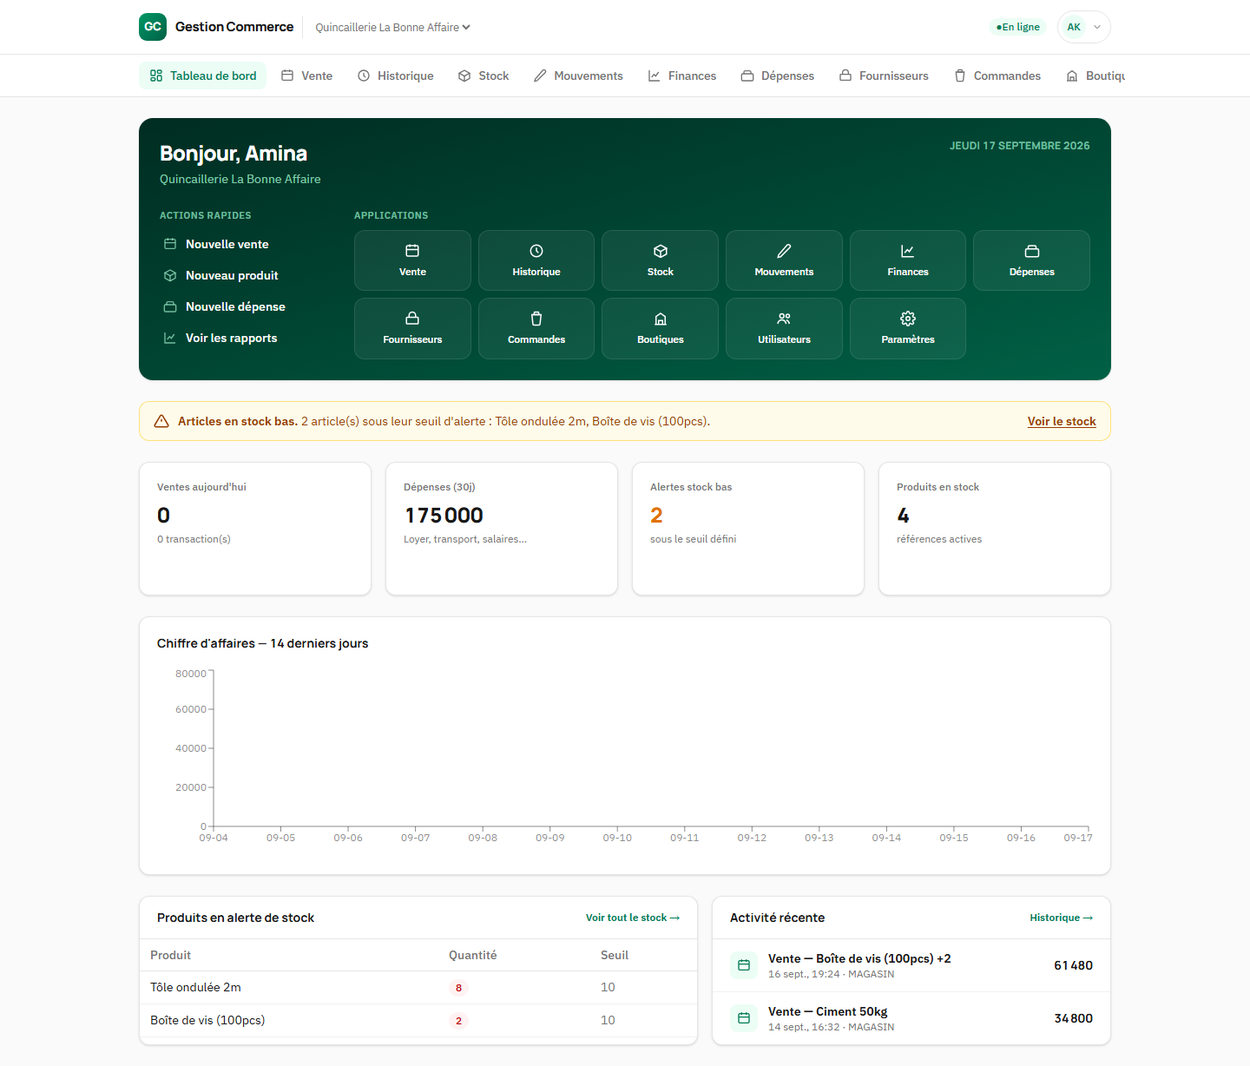
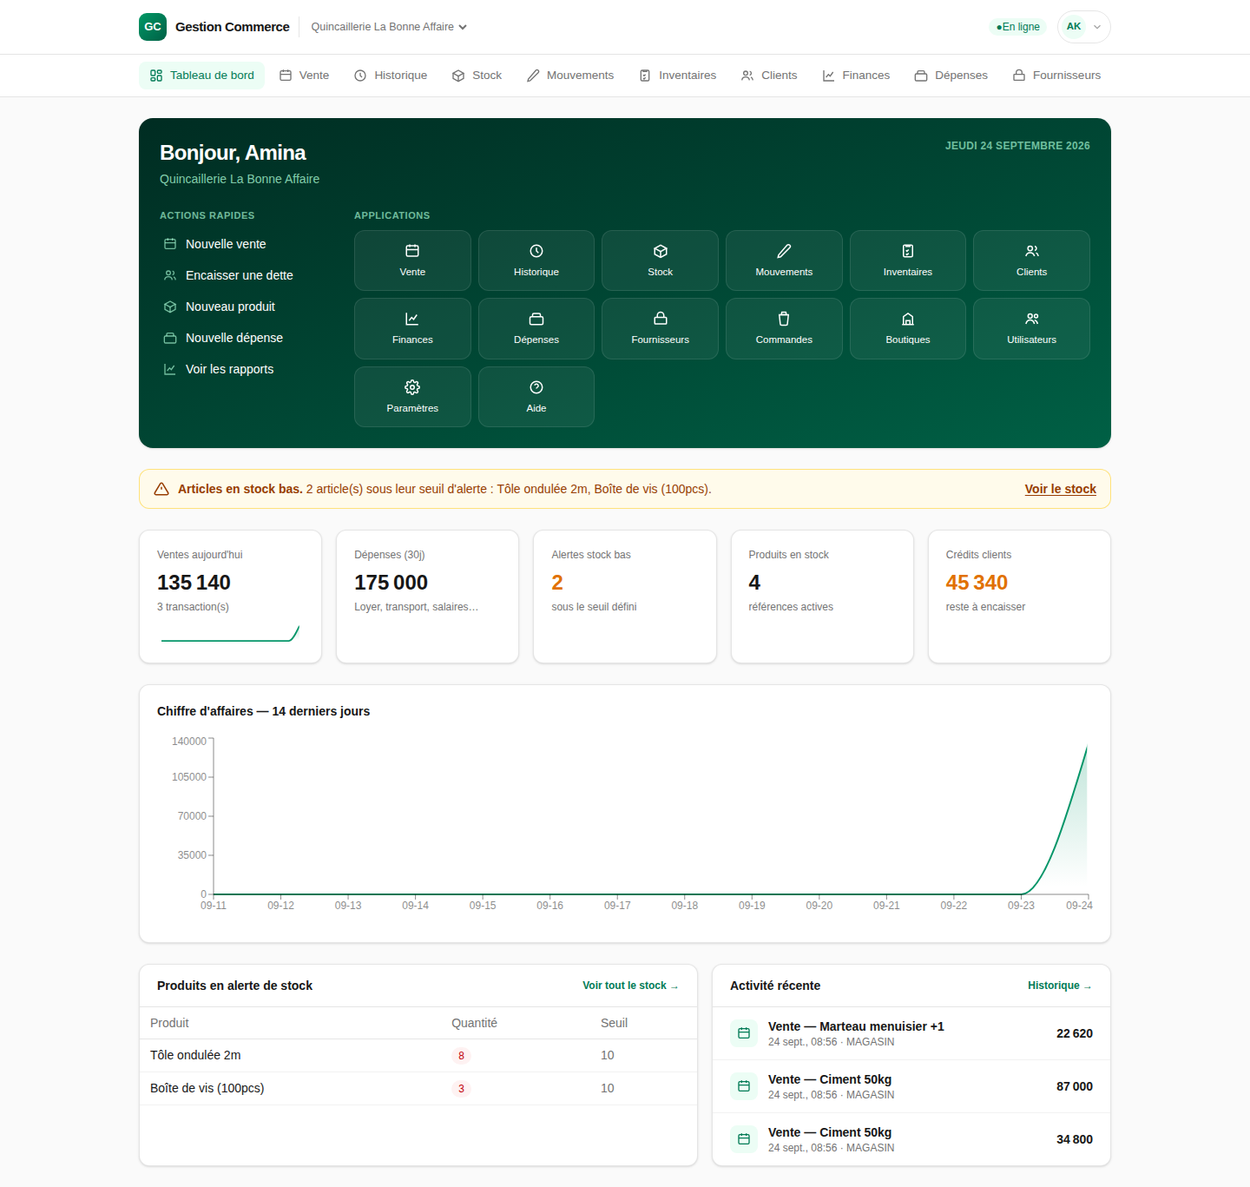
Update the in-app guide for credit sales, returns and inventory
- Recapture the guide screenshots (the navigation, dashboard and checkout
  changed) and add new annotated screenshots for the customer list and
  customer page, an invoice with a return, the return dialog and an
  inventory count in progress.
- Marker positions are computed from the real element positions on
  screen instead of being placed by hand.
- Add a table of contents and a "Bon à savoir" section (return vs
  cancellation, manual refunds, credit sales accounting, offline scope,
  who can do what).

Claude-Session: https://claude.ai/code/session_01U7CyyMZst5erxxMZuJiibi

diff --git a/src/app/(app)/aide/page.tsx b/src/app/(app)/aide/page.tsx
@@ -3,15 +3,57 @@ import { AnnotatedScreenshot } from "@/components/guide/AnnotatedScreenshot";
 export default function GuidePage() {
   return (
     <div className="space-y-10">
-      <div>
+      <div className="space-y-3">
         <h1 className="text-xl font-semibold">Guide d&apos;utilisation</h1>
-        <p className="mt-1 text-sm text-neutral-500">
-          Ces captures viennent directement de l&apos;application en ligne. Chaque numéro entoure un élément de
-          l&apos;écran et vous renvoie vers son explication ci-dessous.
+        <p className="text-sm text-neutral-500">
+          Ces captures viennent directement de l&apos;application. Chaque numéro entoure un élément de l&apos;écran et vous
+          renvoie vers son explication juste en dessous.
         </p>
+        <ol className="grid gap-1 text-sm sm:grid-cols-2 lg:grid-cols-4">
+          <li>
+            <a href="#tableau-de-bord" className="text-emerald-600 hover:underline dark:text-emerald-400">
+              1. Tableau de bord
+            </a>
+          </li>
+          <li>
+            <a href="#vente" className="text-emerald-600 hover:underline dark:text-emerald-400">
+              2. Vente (caisse)
+            </a>
+          </li>
+          <li>
+            <a href="#clients" className="text-emerald-600 hover:underline dark:text-emerald-400">
+              3. Clients &amp; ventes à crédit
+            </a>
+          </li>
+          <li>
+            <a href="#retours" className="text-emerald-600 hover:underline dark:text-emerald-400">
+              4. Retours et annulations
+            </a>
+          </li>
+          <li>
+            <a href="#stock" className="text-emerald-600 hover:underline dark:text-emerald-400">
+              5. Stock &amp; produits
+            </a>
+          </li>
+          <li>
+            <a href="#inventaire" className="text-emerald-600 hover:underline dark:text-emerald-400">
+              6. Inventaire physique
+            </a>
+          </li>
+          <li>
+            <a href="#utilisateurs" className="text-emerald-600 hover:underline dark:text-emerald-400">
+              7. Utilisateurs &amp; accès
+            </a>
+          </li>
+          <li>
+            <a href="#bon-a-savoir" className="text-emerald-600 hover:underline dark:text-emerald-400">
+              8. Bon à savoir
+            </a>
+          </li>
+        </ol>
       </div>
 
-      <section className="space-y-3">
+      <section id="tableau-de-bord" className="scroll-mt-24 space-y-3">
         <h2 className="text-lg font-semibold">1. Tableau de bord</h2>
         <p className="text-sm text-neutral-500">
           C&apos;est la page d&apos;accueil après connexion : un résumé de la journée et un accès rapide à tout le reste.
@@ -19,77 +61,208 @@ export default function GuidePage() {
         <AnnotatedScreenshot
           src="/guide/dashboard.png"
           alt="Capture du tableau de bord de l'application"
-          aspectRatio={1440 / 1228}
+          aspectRatio={1440 / 1367}
           markers={[
-            { id: 1, x: 31, y: 2.4, label: "Boutique active", description: "Nom de la boutique connectée ; cliquez pour changer de boutique si vous en gérez plusieurs." },
-            { id: 2, x: 43, y: 7, label: "Barre de navigation", description: "Accès à toutes les sections (Vente, Stock, Finances...). Elle défile horizontalement sur petit écran." },
-            { id: 3, x: 86, y: 2.4, label: "Profil", description: "Vos initiales : cliquez pour voir votre compte ou vous déconnecter." },
-            { id: 4, x: 18, y: 26, label: "Actions rapides", description: "Raccourcis vers les opérations les plus fréquentes (nouvelle vente, nouveau produit...)." },
-            { id: 5, x: 60, y: 24, label: "Toutes les applications", description: "Grille d'accès à tous les modules de l'application." },
-            { id: 6, x: 49, y: 39, label: "Alerte stock bas", description: "S'affiche dès qu'un article passe sous son seuil d'alerte, avec un lien direct vers le stock." },
-            { id: 7, x: 20, y: 49, label: "Indicateurs clés", description: "Ventes du jour, dépenses sur 30 jours, alertes stock et nombre de produits actifs." },
-            { id: 8, x: 49, y: 69, label: "Chiffre d'affaires", description: "Évolution des ventes sur les 14 derniers jours." },
-            { id: 9, x: 49, y: 91, label: "Alertes & activité récente", description: "Produits à réapprovisionner et dernières ventes enregistrées." },
+            { id: 1, x: 38.8, y: 2.3, label: "Boutique active", description: "Nom de la boutique connectée ; cliquez pour changer de boutique si vous en gérez plusieurs." },
+            { id: 2, x: 50, y: 6.4, label: "Barre de navigation", description: "Accès à toutes les sections (Vente, Clients, Stock, Inventaires, Finances…). Elle défile horizontalement sur petit écran." },
+            { id: 3, x: 85.9, y: 2.3, label: "Profil", description: "Vos initiales : cliquez pour voir votre compte ou vous déconnecter." },
+            { id: 4, x: 21.6, y: 18.2, label: "Actions rapides", description: "Raccourcis vers les opérations fréquentes : nouvelle vente, encaisser une dette, nouveau produit…" },
+            { id: 5, x: 35.7, y: 18.2, label: "Toutes les applications", description: "Grille d'accès à tous les modules de l'application." },
+            { id: 6, x: 25.5, y: 41.2, label: "Alerte stock bas", description: "S'affiche dès qu'un article passe sous son seuil d'alerte, avec un lien direct vers le stock." },
+            { id: 7, x: 20.7, y: 46.7, label: "Indicateurs clés", description: "Ventes du jour (retours déduits), dépenses sur 30 jours, alertes stock et nombre de produits actifs." },
+            { id: 8, x: 82.2, y: 46.7, label: "Crédits clients", description: "Total des ventes à crédit restant à encaisser. Cliquez pour voir les clients qui doivent de l'argent." },
+            { id: 9, x: 30.9, y: 59.9, label: "Chiffre d'affaires", description: "Évolution des ventes sur les 14 derniers jours, retours déduits." },
           ]}
         />
       </section>
 
-      <section className="space-y-3">
+      <section id="vente" className="scroll-mt-24 space-y-3">
         <h2 className="text-lg font-semibold">2. Vente (caisse)</h2>
         <p className="text-sm text-neutral-500">
-          C&apos;est l&apos;écran de caisse utilisé pour encaisser un client, produit par produit.
+          L&apos;écran de caisse pour encaisser un client, produit par produit. Ici, une vente à crédit : le client
+          verse un acompte et le reste s&apos;ajoute à sa dette.
         </p>
         <AnnotatedScreenshot
           src="/guide/vente.png"
-          alt="Capture de l'écran de vente / caisse"
-          aspectRatio={1440 / 520}
+          alt="Capture de l'écran de vente, avec une vente à crédit en cours"
+          aspectRatio={1440 / 690}
           markers={[
-            { id: 1, x: 35, y: 38, label: "Recherche produit", description: "Tapez un nom, une référence ou scannez un code-barres pour ajouter un article au panier." },
-            { id: 2, x: 61, y: 38, label: "Scanner", description: "Ouvre la caméra pour scanner un code-barres ou QR code." },
-            { id: 3, x: 19, y: 52, label: "Liste des produits", description: "Cliquez sur une carte produit pour l'ajouter au panier." },
-            { id: 4, x: 76, y: 44, label: "Panier", description: "Récapitule les articles sélectionnés, le sous-total, la taxe et le total à payer." },
-            { id: 5, x: 76, y: 67, label: "Nom du client", description: "Champ optionnel, utile pour le suivi ou un reçu personnalisé." },
-            { id: 6, x: 76, y: 76, label: "Mode de paiement", description: "Espèces, mobile money (M-Pesa, Airtel Money, CinetPay...) ou autre." },
-            { id: 7, x: 76, y: 86, label: "Encaisser", description: "Valide la vente. Fonctionne aussi hors connexion : la vente se synchronise dès le retour du réseau." },
+            { id: 1, x: 58.1, y: 26.4, label: "Recherche produit", description: "Tapez un nom, une référence ou scannez un code-barres pour ajouter un article au panier." },
+            { id: 2, x: 62.1, y: 26.4, label: "Scanner", description: "Ouvre la caméra pour scanner un code-barres ou QR code." },
+            { id: 3, x: 27.6, y: 34.2, label: "Liste des produits", description: "Cliquez sur une carte produit pour l'ajouter au panier." },
+            { id: 4, x: 69.8, y: 24.2, label: "Panier", description: "Récapitule les articles, le sous-total, la taxe et le total à payer." },
+            { id: 5, x: 84.4, y: 55.1, label: "Client", description: "« Client de passage » par défaut. Choisissez un client enregistré pour suivre ses achats ou lui faire crédit ; sa dette actuelle s'affiche à côté de son nom." },
+            { id: 6, x: 87.2, y: 55.1, label: "Nouveau client", description: "Crée un client sans quitter la caisse ; il est sélectionné automatiquement." },
+            { id: 7, x: 86.9, y: 63.8, label: "Vente à crédit", description: "À cocher si le client ne paie pas tout maintenant. Refusé si le client dépasse son plafond de crédit." },
+            { id: 8, x: 86.6, y: 66.7, label: "Payé maintenant", description: "L'acompte versé aujourd'hui (0 si rien). Le reste dû est calculé automatiquement et s'ajoute à la dette du client." },
+            { id: 9, x: 87.2, y: 80.9, label: "Mode de paiement", description: "Espèces, mobile money (M-Pesa, Airtel Money, CinetPay…), carte ou virement. Pour une vente à crédit, seul l'acompte est encaissé." },
+            { id: 10, x: 87.2, y: 88.4, label: "Encaisser", description: "Valide la vente et ouvre la facture à imprimer. Fonctionne aussi hors connexion : la vente se synchronise dès le retour du réseau." },
           ]}
         />
       </section>
 
-      <section className="space-y-3">
-        <h2 className="text-lg font-semibold">3. Stock &amp; produits</h2>
+      <section id="clients" className="scroll-mt-24 space-y-3">
+        <h2 className="text-lg font-semibold">3. Clients &amp; ventes à crédit</h2>
+        <p className="text-sm text-neutral-500">
+          La liste de vos clients et de ce qu&apos;ils vous doivent. Accessible à toute l&apos;équipe, vendeurs compris.
+        </p>
+        <AnnotatedScreenshot
+          src="/guide/clients.png"
+          alt="Capture de la liste des clients"
+          aspectRatio={1440 / 392}
+          markers={[
+            { id: 1, x: 33.1, y: 51.6, label: "Recherche", description: "Retrouvez un client par son nom ou son téléphone." },
+            { id: 2, x: 46.8, y: 55.9, label: "Avec dette uniquement", description: "N'affiche que les clients qui doivent encore de l'argent." },
+            { id: 3, x: 88.6, y: 36.8, label: "Nouveau client", description: "Crée une fiche client : nom, téléphone, adresse et plafond de crédit (facultatif)." },
+            { id: 4, x: 23.4, y: 44.5, label: "Total à encaisser", description: "Somme de toutes les dettes clients de la liste." },
+            { id: 5, x: 24, y: 79.1, label: "Fiche client", description: "Cliquez sur un nom pour voir ses achats, ses remboursements et encaisser un paiement." },
+            { id: 6, x: 83.8, y: 79.1, label: "Reste dû", description: "Ce que le client doit encore, toutes ventes à crédit confondues." },
+          ]}
+        />
+        <p className="pt-4 text-sm text-neutral-500">
+          La fiche d&apos;un client : c&apos;est ici que vous encaissez le remboursement d&apos;une dette.
+        </p>
+        <AnnotatedScreenshot
+          src="/guide/client.png"
+          alt="Capture de la fiche d'un client avec sa dette et ses remboursements"
+          aspectRatio={1440 / 610}
+          markers={[
+            { id: 1, x: 18.2, y: 41.5, label: "Reste dû", description: "Dette actuelle du client et son plafond de crédit." },
+            { id: 2, x: 51.3, y: 49.1, label: "Montant", description: "Somme remise par le client. Le bouton « Tout » remplit la dette complète." },
+            { id: 3, x: 70.7, y: 49.1, label: "Mode", description: "Comment le client a payé : espèces, mobile money, carte ou virement." },
+            { id: 4, x: 50.9, y: 61.8, label: "Enregistrer le paiement", description: "Le paiement règle d'abord les ventes les plus anciennes. Un montant supérieur à la dette est refusé." },
+            { id: 5, x: 17.1, y: 77.3, label: "Achats", description: "Toutes les ventes du client, avec ce qui reste à payer sur chacune (lien vers la facture)." },
+            { id: 6, x: 64.3, y: 77.3, label: "Remboursements reçus", description: "Historique des paiements de la dette : date, mode et personne qui a encaissé." },
+            { id: 7, x: 88.6, y: 22.7, label: "Modifier", description: "Changer les coordonnées ou le plafond de crédit du client." },
+          ]}
+        />
+      </section>
+
+      <section id="retours" className="scroll-mt-24 space-y-3">
+        <h2 className="text-lg font-semibold">4. Retours et annulations</h2>
+        <p className="text-sm text-neutral-500">
+          Depuis l&apos;historique des ventes, cliquez sur un numéro de facture pour l&apos;ouvrir. Les gestionnaires et
+          administrateurs peuvent y enregistrer un retour ou annuler la vente.
+        </p>
+        <AnnotatedScreenshot
+          src="/guide/facture.png"
+          alt="Capture d'une facture avec un retour d'article"
+          aspectRatio={1440 / 895}
+          markers={[
+            { id: 1, x: 21.1, y: 22.6, label: "Retour d'articles", description: "Le client rend une partie des articles (réservé aux gestionnaires et administrateurs)." },
+            { id: 2, x: 30.9, y: 22.6, label: "Annuler la vente", description: "Annule toute la vente avec un motif : articles remis en stock, vente retirée du chiffre d'affaires. La facture reste consultable avec la mention « annulée »." },
+            { id: 3, x: 39, y: 22.6, label: "Imprimer / PDF", description: "Imprime la facture ou la télécharge en PDF." },
+            { id: 4, x: 20.9, y: 45.2, label: "Client", description: "Lien vers la fiche du client pour encaisser sa dette." },
+            { id: 5, x: 26.6, y: 56.6, label: "Quantité rendue", description: "Indique combien d'unités de cet article ont déjà été retournées." },
+            { id: 6, x: 39.8, y: 76.9, label: "Reste à payer", description: "Montant encore dû sur cette vente à crédit (après acompte, remboursements et retours)." },
+            { id: 7, x: 17.5, y: 85.6, label: "Historique des retours", description: "Chaque retour : date, articles, motif, montant déduit de la dette et montant remboursé au client." },
+          ]}
+        />
+        <p className="pt-4 text-sm text-neutral-500">La fenêtre qui s&apos;ouvre avec « Retour d&apos;articles » :</p>
+        <div className="max-w-xl">
+          <AnnotatedScreenshot
+            src="/guide/retour.png"
+            alt="Capture de la fenêtre de retour d'articles"
+            aspectRatio={544 / 477}
+            markers={[
+              { id: 1, x: 90.4, y: 34.2, label: "Quantité rendue", description: "Pour chaque article, la quantité que le client rapporte (au maximum ce qui reste retournable)." },
+              { id: 2, x: 92.6, y: 58.9, label: "Motif", description: "Obligatoire : article défectueux, erreur de taille…" },
+              { id: 3, x: 48.8, y: 71.1, label: "Valeur du retour", description: "Montant taxe comprise. Sur une vente à crédit, il réduit d'abord la dette ; le surplus est à rendre au client." },
+              { id: 4, x: 92.6, y: 85.3, label: "Valider le retour", description: "Remet les articles en stock et déduit le montant du chiffre d'affaires." },
+            ]}
+          />
+        </div>
+      </section>
+
+      <section id="stock" className="scroll-mt-24 space-y-3">
+        <h2 className="text-lg font-semibold">5. Stock &amp; produits</h2>
         <p className="text-sm text-neutral-500">Gérez vos produits, leurs quantités et leurs seuils d&apos;alerte.</p>
         <AnnotatedScreenshot
           src="/guide/stock.png"
           alt="Capture de la page stock et produits"
-          aspectRatio={1440 / 460}
+          aspectRatio={1440 / 454}
           markers={[
-            { id: 1, x: 22, y: 45, label: "Recherche", description: "Recherchez un produit par nom, référence ou code-barres." },
-            { id: 2, x: 35, y: 45, label: "Stock bas uniquement", description: "Filtre pour n'afficher que les produits sous leur seuil d'alerte." },
-            { id: 3, x: 84, y: 33, label: "Nouveau produit", description: "Ajoute un nouvel article au catalogue de la boutique." },
-            { id: 4, x: 83, y: 45, label: "Mouvements de stock", description: "Historique des entrées et sorties de stock (réceptions, ajustements, ventes)." },
-            { id: 5, x: 49, y: 70, label: "Tableau des produits", description: "Les quantités affichées en rouge sont sous le seuil d'alerte défini pour ce produit." },
-            { id: 6, x: 83, y: 65, label: "Gérer", description: "Ouvre la fiche du produit pour modifier son prix, son stock ou son seuil." },
+            { id: 1, x: 33.1, y: 41.9, label: "Recherche", description: "Recherchez un produit par nom, référence ou code-barres." },
+            { id: 2, x: 46.5, y: 45.6, label: "Stock bas uniquement", description: "N'affiche que les produits sous leur seuil d'alerte." },
+            { id: 3, x: 88.6, y: 30.5, label: "Nouveau produit", description: "Ajoute un nouvel article au catalogue de la boutique." },
+            { id: 4, x: 76.1, y: 42.1, label: "Inventaire physique", description: "Comptez le stock réel en rayon et corrigez les écarts (voir la section Inventaire)." },
+            { id: 5, x: 88.6, y: 42.1, label: "Mouvements de stock", description: "Historique des entrées et sorties : réceptions, ventes, retours, annulations, ajustements d'inventaire." },
+            { id: 6, x: 58.2, y: 65.7, label: "Tableau des produits", description: "Les quantités en rouge sont sous le seuil d'alerte défini pour ce produit." },
+            { id: 7, x: 85.3, y: 65.7, label: "Gérer", description: "Ouvre la fiche du produit pour modifier son prix, son stock ou son seuil." },
           ]}
         />
       </section>
 
-      <section className="space-y-3">
-        <h2 className="text-lg font-semibold">4. Utilisateurs &amp; accès</h2>
+      <section id="inventaire" className="scroll-mt-24 space-y-3">
+        <h2 className="text-lg font-semibold">6. Inventaire physique</h2>
+        <p className="text-sm text-neutral-500">
+          Pour compter ce qui est réellement en rayon et corriger le stock. Démarrez-le depuis Stock → « Inventaire
+          physique » (gestionnaires et administrateurs). Vous pouvez continuer à vendre pendant le comptage : les ventes
+          ne faussent pas les écarts.
+        </p>
+        <AnnotatedScreenshot
+          src="/guide/inventaire.png"
+          alt="Capture d'un inventaire en cours de comptage"
+          aspectRatio={1440 / 644}
+          markers={[
+            { id: 1, x: 18.1, y: 39.3, label: "Avancement", description: "Nombre de produits déjà comptés sur le total." },
+            { id: 2, x: 42.6, y: 39.3, label: "Écarts", description: "Produits dont la quantité comptée diffère du stock théorique." },
+            { id: 3, x: 65.6, y: 39.3, label: "Valeur des écarts", description: "Manquants et surplus valorisés au prix d'achat : utile pour repérer les pertes ou les vols." },
+            { id: 4, x: 33.1, y: 52.8, label: "Recherche et scan", description: "Retrouvez un produit par son nom, ou scannez son code-barres avec la caméra pour aller directement à sa ligne." },
+            { id: 5, x: 48.2, y: 53, label: "Filtre", description: "Tous les produits, seulement ceux pas encore comptés, ou seulement ceux en écart." },
+            { id: 6, x: 66.5, y: 68.4, label: "Quantité comptée", description: "Tapez la quantité réellement présente en rayon : elle est enregistrée dès que vous quittez la case (ou appuyez sur Entrée)." },
+            { id: 7, x: 72.4, y: 70.4, label: "Écart", description: "Compté moins théorique : en rouge un manquant, en vert un surplus." },
+            { id: 8, x: 88.6, y: 21.5, label: "Valider l'inventaire", description: "Applique les écarts au stock (les produits non comptés ne changent pas). Chaque correction est tracée dans les mouvements de stock." },
+            { id: 9, x: 78, y: 21.5, label: "Abandonner", description: "Annule l'inventaire sans toucher au stock." },
+          ]}
+        />
+      </section>
+
+      <section id="utilisateurs" className="scroll-mt-24 space-y-3">
+        <h2 className="text-lg font-semibold">7. Utilisateurs &amp; accès</h2>
         <p className="text-sm text-neutral-500">
           Créez des comptes pour votre équipe et choisissez ce que chaque personne a le droit de faire.
         </p>
         <AnnotatedScreenshot
           src="/guide/utilisateurs.png"
           alt="Capture de la page utilisateurs"
-          aspectRatio={1440 / 420}
+          aspectRatio={1440 / 411}
           markers={[
-            { id: 1, x: 83, y: 37, label: "Ajouter un utilisateur", description: "Ouvre un formulaire pour créer un compte (nom, email, mot de passe temporaire, rôle)." },
-            { id: 2, x: 21, y: 60, label: "Nom et email", description: "Identité et identifiant de connexion de la personne." },
-            { id: 3, x: 61, y: 60, label: "Rôle", description: "Administrateur (accès total), Gestionnaire (gestion courante) ou Vendeur (caisse uniquement)." },
-            { id: 4, x: 74, y: 60, label: "Statut", description: "Cliquez pour activer ou désactiver l'accès de la personne sans la supprimer." },
-            { id: 5, x: 83, y: 60, label: "Retirer", description: "Retire définitivement cette personne de la boutique." },
+            { id: 1, x: 88.6, y: 33.6, label: "Ajouter un utilisateur", description: "Ouvre un formulaire pour créer un compte (nom, email, mot de passe temporaire, rôle)." },
+            { id: 2, x: 20.2, y: 61.4, label: "Nom et email", description: "Identité et identifiant de connexion de la personne." },
+            { id: 3, x: 72.5, y: 61.4, label: "Rôle", description: "Administrateur (accès total), Gestionnaire (gestion courante, retours, inventaires) ou Vendeur (caisse et clients)." },
+            { id: 4, x: 76.9, y: 61.5, label: "Statut", description: "Cliquez pour activer ou désactiver l'accès de la personne sans la supprimer." },
+            { id: 5, x: 85.3, y: 61.4, label: "Retirer", description: "Retire définitivement cette personne de la boutique." },
           ]}
         />
+      </section>
+
+      <section id="bon-a-savoir" className="scroll-mt-24 space-y-3">
+        <h2 className="text-lg font-semibold">8. Bon à savoir</h2>
+        <ul className="list-disc space-y-2 pl-5 text-sm">
+          <li>
+            <b>Retour ou annulation ?</b> Le retour concerne une partie des articles ; l&apos;annulation efface toute la
+            vente (erreur de saisie, par exemple). Dans les deux cas, les articles reviennent en stock et le chiffre
+            d&apos;affaires est corrigé.
+          </li>
+          <li>
+            <b>Remboursements :</b> l&apos;application calcule le montant à rendre au client mais ne le renvoie pas
+            automatiquement sur son mobile money ou sa carte : faites-le vous-même.
+          </li>
+          <li>
+            <b>Ventes à crédit :</b> elles comptent dans le chiffre d&apos;affaires dès la vente. Le montant restant à
+            encaisser est suivi à part (« Crédits clients » sur le tableau de bord, « Créances clients » dans Finances).
+          </li>
+          <li>
+            <b>Hors connexion :</b> la caisse continue de fonctionner, y compris pour un client enregistré si la page
+            était chargée avant la coupure. Les clients, retours et inventaires demandent une connexion.
+          </li>
+          <li>
+            <b>Qui peut faire quoi :</b> les vendeurs vendent, voient le stock et gèrent les clients et leurs
+            paiements ; les gestionnaires ajoutent les retours, annulations, inventaires, finances et fournisseurs ;
+            les administrateurs ont tous les droits.
+          </li>
+        </ul>
       </section>
     </div>
   );
